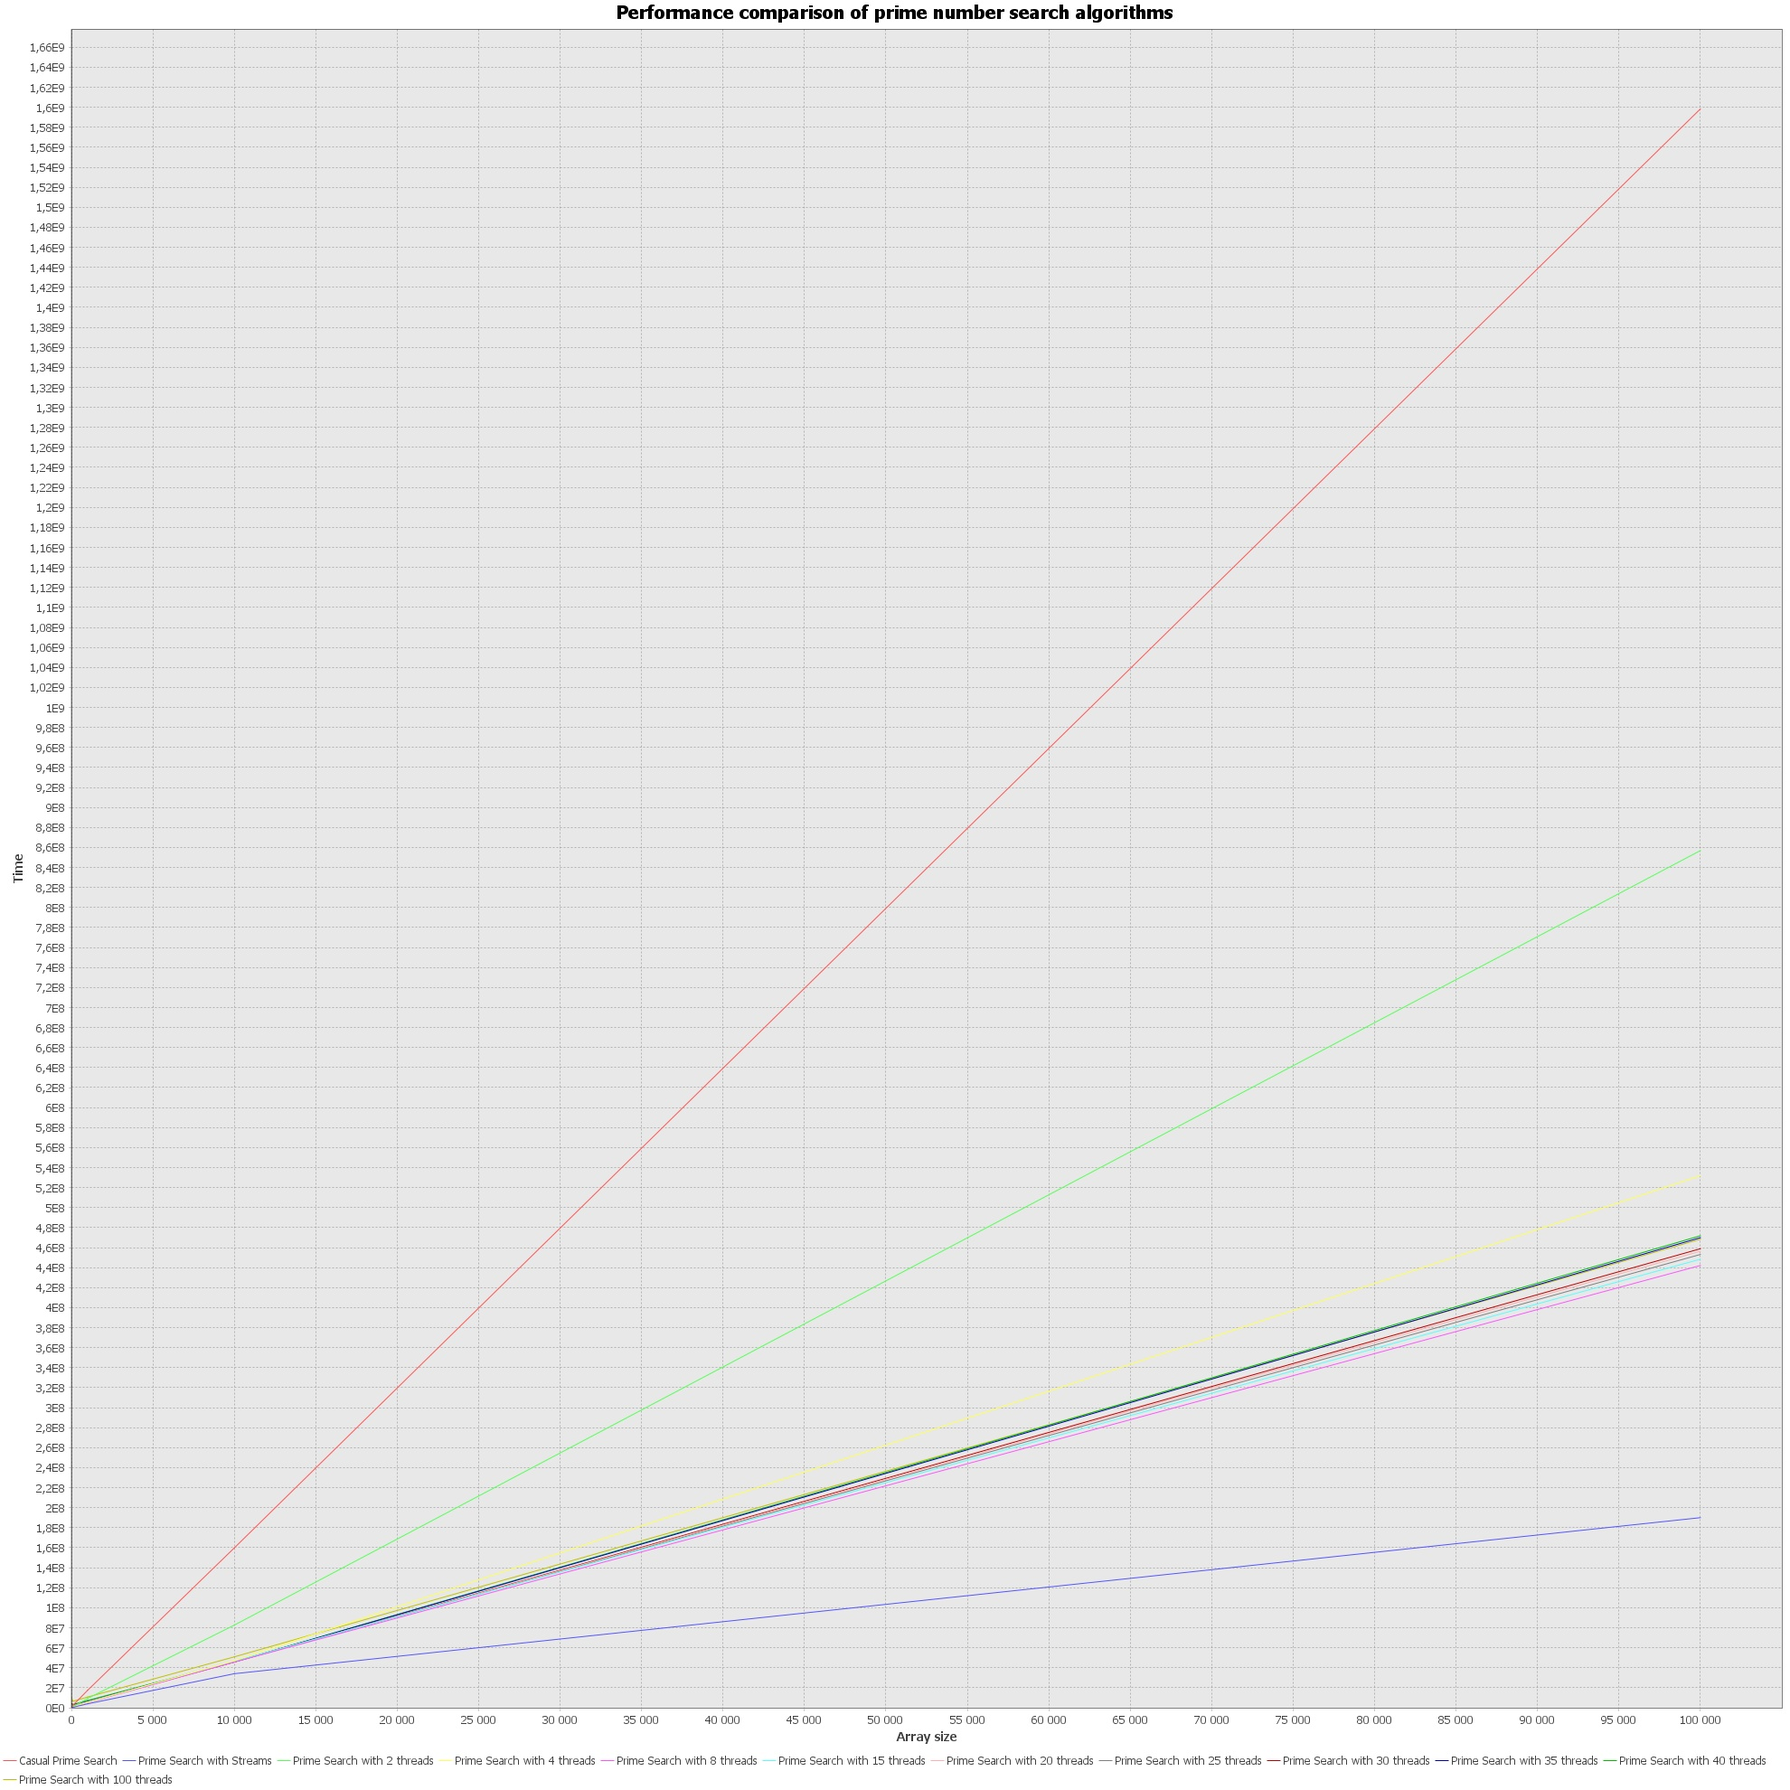
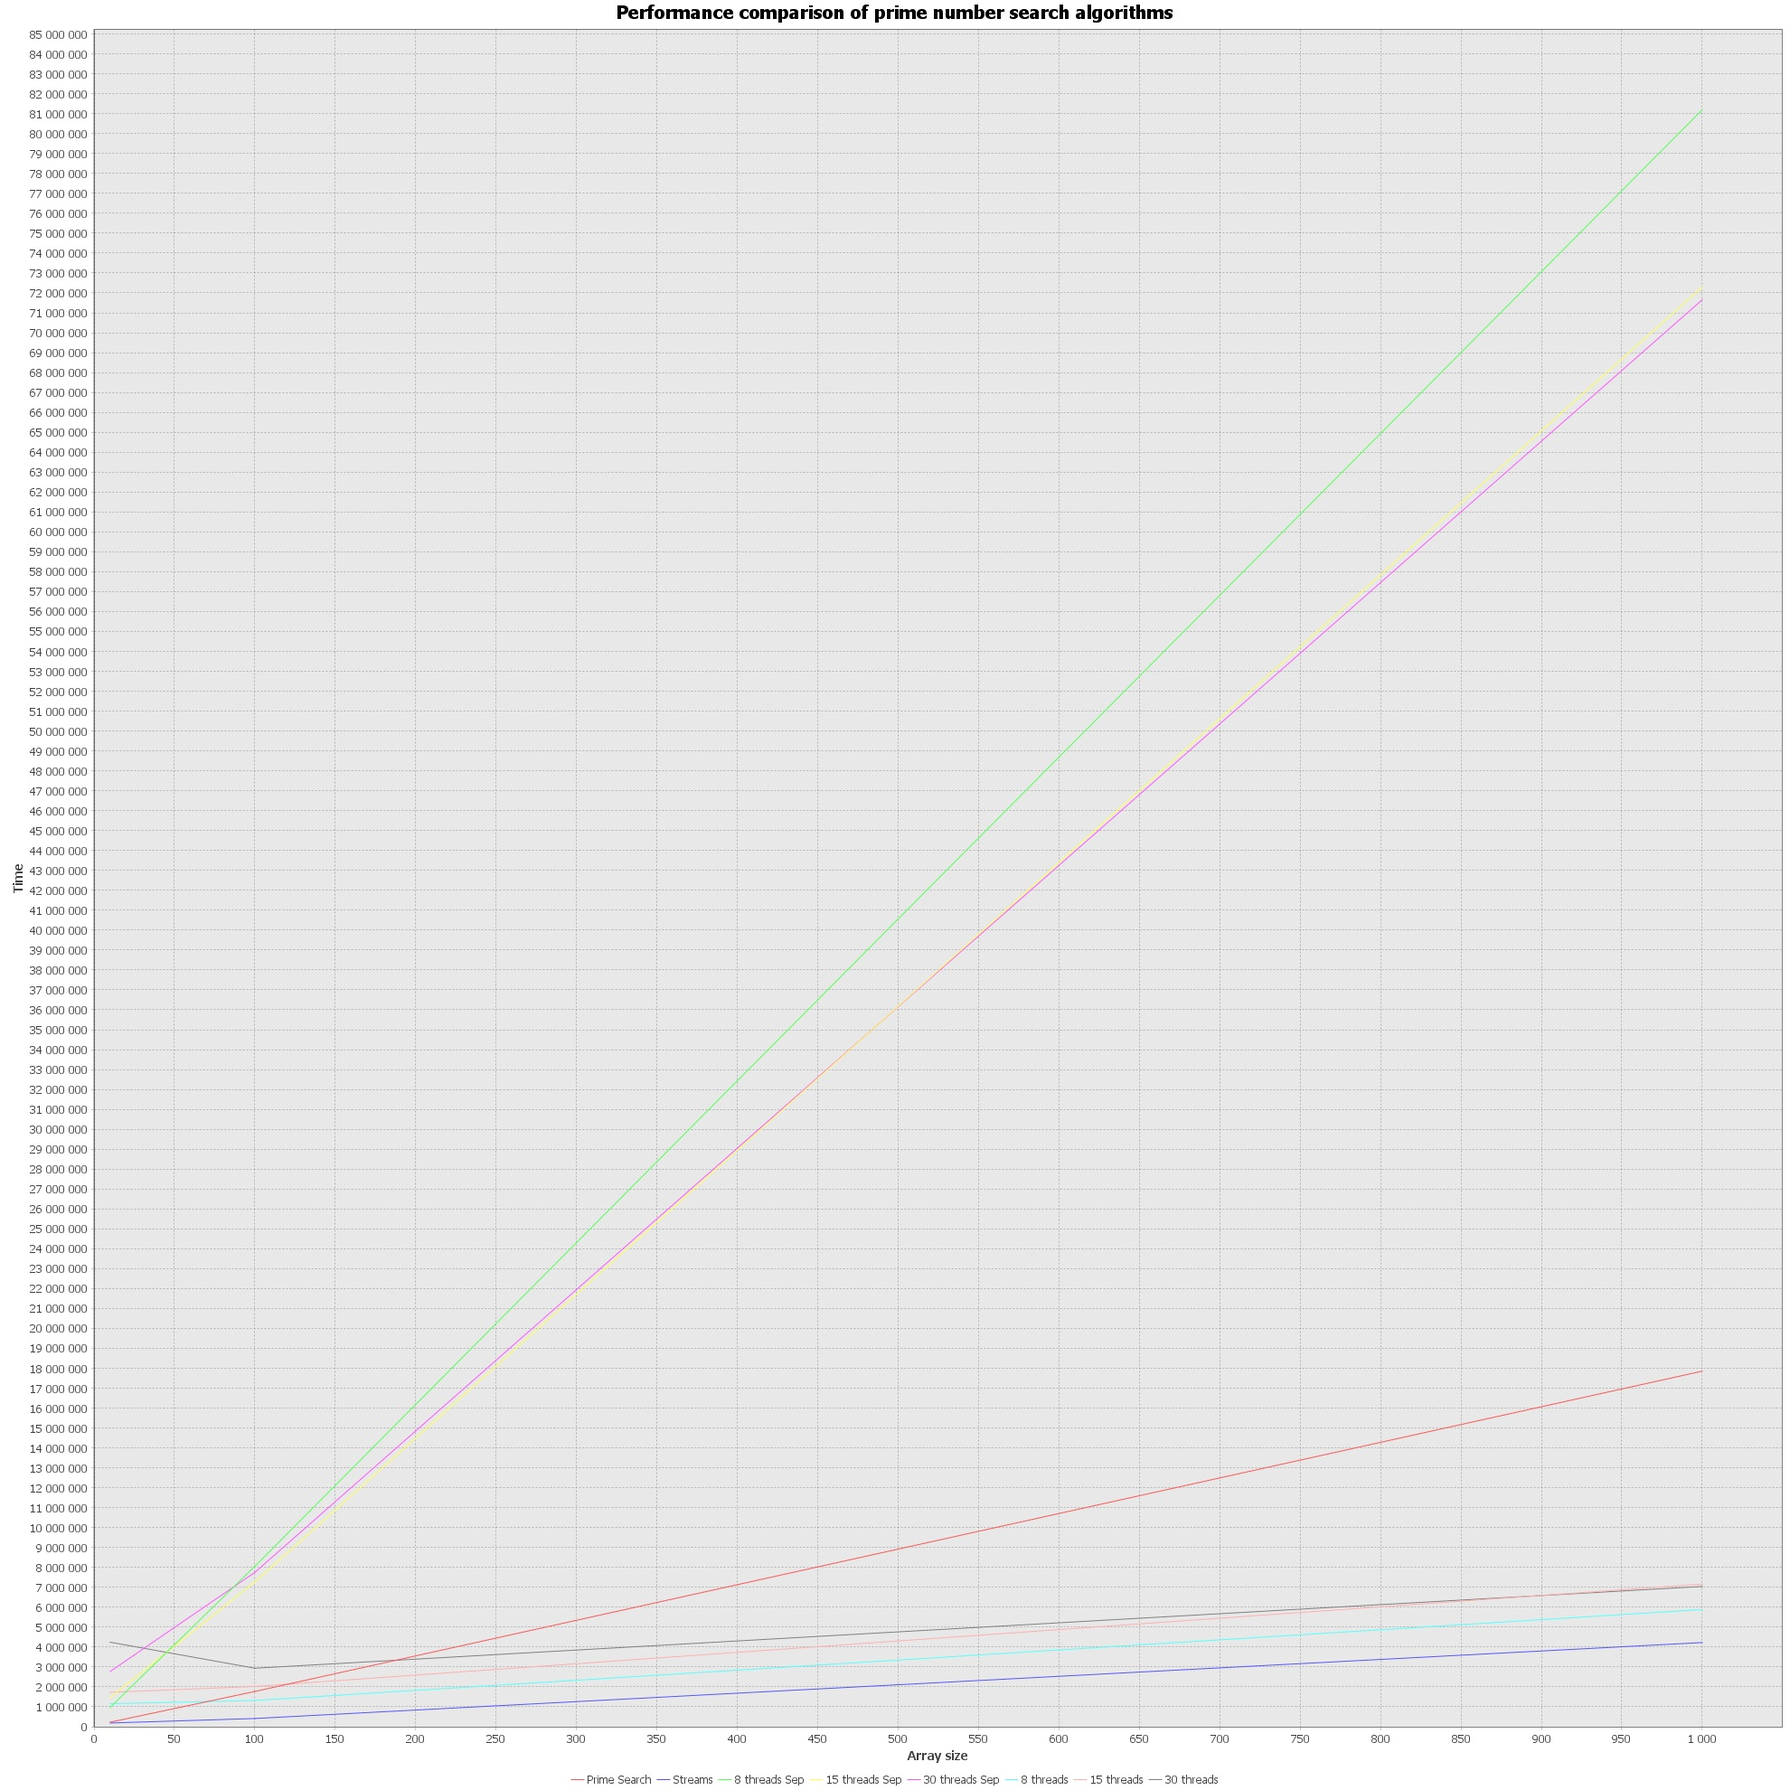
Fixes, new algorithm уменьше размер массива для тестирования

diff --git a/Task_2_1_1/src/test/java/ru/nsu/mbogdanov2/speed/PerformanceTest.java b/Task_2_1_1/src/test/java/ru/nsu/mbogdanov2/speed/PerformanceTest.java
@@ -6,12 +6,14 @@ import java.util.Arrays;
 import java.util.Collections;
 import java.util.List;
 import java.util.concurrent.ExecutionException;
+
 import org.jfree.data.xy.XYSeries;
 import org.jfree.data.xy.XYSeriesCollection;
 import org.junit.jupiter.api.Test;
 import ru.nsu.mbogdanov2.PrimeSearch;
 import ru.nsu.mbogdanov2.PrimeSearchWithStreams;
 import ru.nsu.mbogdanov2.PrimeSearchWithThread;
+import ru.nsu.mbogdanov2.PrimeSearchWithThreadsBySeparation;
 
 /**
  * We perform algorithms sequentially, with streams and with different number of threads.
@@ -24,7 +26,6 @@ public class PerformanceTest {
         }
         int[] array = new int[size];
         Arrays.fill(array, 0, size - 1, 1073676287);
-        array[size - 1] = 187263196;
         return array;
     }
 
@@ -52,62 +53,61 @@ public class PerformanceTest {
         return Collections.min(results);
     }
 
+    private long singleTestForThreadsBySeparations(PrimeSearchWithThreadsBySeparation notPrimeSearch, int[] array,
+                                                   int threadsNumber) {
+        List<Long> results = new ArrayList<>();
+        List<Integer> list = new ArrayList<>();
+        Integer[] array2 = Arrays.stream(array).boxed().toArray(Integer[]::new);
+        Collections.addAll(list, array2);
+        for (int i = 0; i < 3; ++i) {
+            long time = System.nanoTime();
+            notPrimeSearch.search(threadsNumber, false, list);
+            time = System.nanoTime() - time;
+            results.add(time);
+        }
+        return Collections.min(results);
+    }
+
     @Test
     public void performanceTest() throws ExecutionException, InterruptedException, IOException {
         XYSeriesCollection dataset = new XYSeriesCollection();
-        XYSeries series1 = new XYSeries("Casual Prime Search");
-        XYSeries series2 = new XYSeries("Prime Search with Streams");
-        XYSeries series3 = new XYSeries("Prime Search with 2 threads");
-        XYSeries series4 = new XYSeries("Prime Search with 4 threads");
-        XYSeries series5 = new XYSeries("Prime Search with 8 threads");
-        XYSeries series6 = new XYSeries("Prime Search with 15 threads");
-        XYSeries series7 = new XYSeries("Prime Search with 20 threads");
-        XYSeries series8 = new XYSeries("Prime Search with 25 threads");
-        XYSeries series9 = new XYSeries("Prime Search with 30 threads");
-        XYSeries series10 = new XYSeries("Prime Search with 35 threads");
-        XYSeries series11 = new XYSeries("Prime Search with 40 threads");
-        XYSeries series12 = new XYSeries("Prime Search with 100 threads");
+        XYSeries series1 = new XYSeries("Prime Search");
+        XYSeries series2 = new XYSeries("Streams");
+        XYSeries series3 = new XYSeries("8 threads Sep");
+        XYSeries series4 = new XYSeries("15 threads Sep");
+        XYSeries series5 = new XYSeries("8 threads");
+        XYSeries series6 = new XYSeries("30 threads Sep");
+        XYSeries series7 = new XYSeries("15 threads");
+        XYSeries series8 = new XYSeries("30 threads");
 
-        for (int size = 10; size <= 100000; size *= 10) {
+        for (int size = 10; size <= 1000; size *= 10) {
             int[] array = createArray(size);
             long time = singleTest(new PrimeSearch(), array);
             series1.add(size, time);
             time = singleTest(new PrimeSearchWithStreams(), array);
             series2.add(size, time);
-            time = singleTestForThreads(new PrimeSearchWithThread(), array, 2);
-            series3.add(size, time);
-            time = singleTestForThreads(new PrimeSearchWithThread(), array, 4);
-            series4.add(size, time);
             time = singleTestForThreads(new PrimeSearchWithThread(), array, 8);
             series5.add(size, time);
             time = singleTestForThreads(new PrimeSearchWithThread(), array, 15);
-            series6.add(size, time);
-            time = singleTestForThreads(new PrimeSearchWithThread(), array, 20);
             series7.add(size, time);
-            time = singleTestForThreads(new PrimeSearchWithThread(), array, 25);
-            series8.add(size, time);
             time = singleTestForThreads(new PrimeSearchWithThread(), array, 30);
-            series9.add(size, time);
-            time = singleTestForThreads(new PrimeSearchWithThread(), array, 35);
-            series10.add(size, time);
-            time = singleTestForThreads(new PrimeSearchWithThread(), array, 40);
-            series11.add(size, time);
-            time = singleTestForThreads(new PrimeSearchWithThread(), array, 100);
-            series12.add(size, time);
+            series8.add(size, time);
+            time = singleTestForThreadsBySeparations(new PrimeSearchWithThreadsBySeparation(), array, 8);
+            series3.add(size, time);
+            time = singleTestForThreadsBySeparations(new PrimeSearchWithThreadsBySeparation(), array, 15);
+            series4.add(size, time);
+            time = singleTestForThreadsBySeparations(new PrimeSearchWithThreadsBySeparation(), array, 30);
+            series6.add(size, time);
         }
 
         dataset.addSeries(series1);
         dataset.addSeries(series2);
         dataset.addSeries(series3);
         dataset.addSeries(series4);
-        dataset.addSeries(series5);
         dataset.addSeries(series6);
+        dataset.addSeries(series5);
         dataset.addSeries(series7);
         dataset.addSeries(series8);
-        dataset.addSeries(series9);
-        dataset.addSeries(series10);
-        dataset.addSeries(series11);
-        dataset.addSeries(series12);
         ChartRepresentation chart = new ChartRepresentation(dataset);
         chart.createFile();
     }

diff --git a/Task_2_1_1/src/main/java/ru/nsu/mbogdanov2/PrimeSearchWithThreadsBySeparation.java b/Task_2_1_1/src/main/java/ru/nsu/mbogdanov2/PrimeSearchWithThreadsBySeparation.java
@@ -1,0 +1,89 @@
+package ru.nsu.mbogdanov2;
+
+import java.util.Arrays;
+import java.util.List;
+
+
+/**
+ * Algorithm with separating of inputted array.
+ */
+public class PrimeSearchWithThreadsBySeparation {
+    private boolean notPrimeNumber = false;
+
+    /**
+     * Main function that tries to find not prime
+     * number in the list of numbers.
+     *
+     * @return false if there are only prime numbers.
+     */
+    public boolean search(int threadsNumber, boolean turnOnThreadsNumber, List<Integer> primeList) {
+        if (primeList.isEmpty()) {
+            throw new NullPointerException();
+        }
+        if (turnOnThreadsNumber) {
+            threadsNumber = Runtime.getRuntime().availableProcessors();
+        }
+        int listPart;
+        if (primeList.size() >= threadsNumber) {
+            listPart = 1;
+            threadsNumber = primeList.size();
+        } else {
+            listPart = primeList.size() / threadsNumber;
+        }
+        MyThread[] threads = new MyThread[threadsNumber];
+
+        int leftPart, rightPart;
+        for (int i = 0; i < threadsNumber; i++) {
+            leftPart = listPart * i;
+            if (i == threadsNumber - 1) {
+                rightPart = primeList.size();
+            } else {
+                rightPart = listPart * (i + 1);
+            }
+            threads[i] = new MyThread(primeList.subList(leftPart, rightPart));
+            threads[i].start();
+        }
+        checkThreads(threads);
+        return notPrimeNumber;
+    }
+
+    /**
+     * We check that all created threads must be finished.
+     */
+    public void checkThreads(MyThread[] threads) {
+        Arrays.stream(threads).forEach(myThread -> {
+            try {
+                myThread.join();
+            } catch (InterruptedException e) {
+                throw new RuntimeException(e);
+            }
+        });
+    }
+
+    /**
+     * Class that creates my own threads with mu own run method.
+     */
+    public class MyThread extends Thread {
+        private final List<Integer> primeList;
+
+        /**
+         * Constructor for my own threads.
+         */
+        public MyThread(List<Integer> numbers) {
+            this.primeList = numbers;
+        }
+
+        /**
+         * Override Run method for thread.
+         */
+        @Override
+        public void run() {
+            for (Integer i : primeList) {
+                if (!PrimeSearchWithThread.primeCheck(i)) {
+                    notPrimeNumber = true;
+                    break;
+                }
+            }
+        }
+    }
+}

diff --git a/Task_2_1_1/src/test/java/ru/nsu/mbogdanov2/algorithm/PrimeSearchWithThreadsBySeparationTests.java b/Task_2_1_1/src/test/java/ru/nsu/mbogdanov2/algorithm/PrimeSearchWithThreadsBySeparationTests.java
@@ -1,0 +1,68 @@
+package ru.nsu.mbogdanov2.algorithm;
+
+
+import static org.junit.jupiter.api.Assertions.assertFalse;
+import static org.junit.jupiter.api.Assertions.assertThrows;
+import static org.junit.jupiter.api.Assertions.assertTrue;
+
+import java.util.ArrayList;
+import java.util.Arrays;
+import java.util.Collections;
+import java.util.List;
+
+import org.junit.jupiter.api.Test;
+import ru.nsu.mbogdanov2.PrimeSearchWithThreadsBySeparation;
+
+
+/**
+ * Testing class for threads algorithm with separated array.
+ */
+public class PrimeSearchWithThreadsBySeparationTests {
+    @Test
+    public void search_throwsNullPointerException() {
+        assertThrows(NullPointerException.class, () -> new PrimeSearchWithThreadsBySeparation()
+                .search(0, true, new ArrayList<>()));
+    }
+
+    @Test
+    public void smallDataTestFalse() {
+        int size = 70;
+        Integer[] array = new Integer[size];
+        Arrays.fill(array, 0, size, 17);
+        List<Integer> list = new ArrayList<>();
+        Collections.addAll(list, array);
+        assertFalse(new PrimeSearchWithThreadsBySeparation().search(2, true, list));
+    }
+
+    @Test
+    public void smallDataTestTrue() {
+        int size = 70;
+        Integer[] array = new Integer[size];
+        Arrays.fill(array, 0, size - 1, 13);
+        array[69] = 100;
+        List<Integer> list = new ArrayList<>();
+        Collections.addAll(list, array);
+        assertTrue(new PrimeSearchWithThreadsBySeparation().search(8, true, list));
+    }
+
+    @Test
+    public void largeDataTestFalse() {
+        int size = 100000;
+        Integer[] array = new Integer[size];
+        Arrays.fill(array, 0, size, 2624183);
+        List<Integer> list = new ArrayList<>();
+        Collections.addAll(list, array);
+        assertFalse(new PrimeSearchWithThreadsBySeparation().search(8, true, list));
+    }
+
+    @Test
+    public void largeDataTestTrue() {
+        int size = 100000;
+        Integer[] array = new Integer[size];
+        Arrays.fill(array, 0, size - 1, 262419);
+        array[size - 1] = 22222228;
+        List<Integer> list = new ArrayList<>();
+        Collections.addAll(list, array);
+        assertTrue(new PrimeSearchWithThreadsBySeparation().search(8, true, list));
+    }
+}

diff --git a/Task_2_1_1/src/main/java/ru/nsu/mbogdanov2/PrimeSearch.java b/Task_2_1_1/src/main/java/ru/nsu/mbogdanov2/PrimeSearch.java
@@ -1,37 +1,17 @@
 package ru.nsu.mbogdanov2;
 
+import static ru.nsu.mbogdanov2.PrimeSearchWithThread.primeCheck;
+
 /**
  * Casual class without stream and thread.
  */
 public class PrimeSearch {
-    /**
-     * Function to check the number of divisors on the number.
-     * I found it on the stackoverflow, and it's not bad.
-     *
-     * @param number number that need to be checked
-     * @return true if the number is prime
-     */
-    public boolean primeCheck(int number) {
-        if (number <= 1) {
-            return false;
-        } else if (number <= 3) {
-            return true;
-        } else if (number % 2 == 0 || number % 3 == 0) {
-            return false;
-        }
-        for (int i = 5; i * i <= number; i += 6) {
-            if (number % i == 0 || number % (i + 2) == 0) {
-                return false;
-            }
-        }
-        return true;
-    }
 
     /**
      * We check every number of the input array.
      * Return true if there are at least one not prime number.
      */
-    public boolean search(int[] array) throws NullPointerException {
+    public boolean search(int[] array) {
         if (array == null) {
             throw new NullPointerException();
         }

diff --git a/Task_2_1_1/src/main/java/ru/nsu/mbogdanov2/PrimeSearchWithThread.java b/Task_2_1_1/src/main/java/ru/nsu/mbogdanov2/PrimeSearchWithThread.java
@@ -37,12 +37,11 @@ public class PrimeSearchWithThread {
      * Secondly, we create list of callable tasks for every number of processors.
      * Then we just check the result and shutdown tasks.
      */
-    public boolean search(int[] array, boolean flag, int threadsNumber) throws NullPointerException,
-            InterruptedException, ExecutionException {
+    public boolean search(int[] array, boolean turnOnThreadsNumber, int threadsNumber) throws InterruptedException, ExecutionException {
         if (array == null) {
             throw new NullPointerException();
         }
-        if (flag) {
+        if (turnOnThreadsNumber) {
             threadsNumber = Runtime.getRuntime().availableProcessors();
         }
         deque = Arrays.stream(array).boxed().collect(Collectors.toCollection(ArrayDeque::new));
@@ -73,7 +72,7 @@ public class PrimeSearchWithThread {
         return false;
     }
 
-    private static boolean primeCheck(int number) {
+    public static boolean primeCheck(int number) {
         if (number <= 1) {
             return false;
         } else if (number <= 3) {

diff --git a/Task_2_1_1/src/main/java/ru/nsu/mbogdanov2/PrimeSearchWithStreams.java b/Task_2_1_1/src/main/java/ru/nsu/mbogdanov2/PrimeSearchWithStreams.java
@@ -1,7 +1,8 @@
 package ru.nsu.mbogdanov2;
 
 import java.util.Arrays;
-import java.util.stream.IntStream;
+
+import static ru.nsu.mbogdanov2.PrimeSearchWithThread.primeCheck;
 
 /**
  * Simple algorithm with streams.
@@ -12,11 +13,10 @@ public class PrimeSearchWithStreams extends PrimeSearch {
      * We return true if there is at least 1 non-prime number
      */
     @Override
-    public boolean search(int[] array) throws NullPointerException {
+    public boolean search(int[] array) {
         if (array == null) {
             throw new NullPointerException();
         }
-        IntStream intStream = Arrays.stream(array);
-        return intStream.parallel().anyMatch(number -> !primeCheck(number));
+        return Arrays.stream(array).parallel().anyMatch(number -> !primeCheck(number));
     }
 }

diff --git a/Task_2_1_1/src/test/java/ru/nsu/mbogdanov2/algorithm/PrimeSearchTests.java b/Task_2_1_1/src/test/java/ru/nsu/mbogdanov2/algorithm/PrimeSearchTests.java
@@ -8,6 +8,7 @@ import static org.junit.jupiter.api.Assertions.assertTrue;
 import java.util.Arrays;
 import org.junit.jupiter.api.Test;
 import ru.nsu.mbogdanov2.PrimeSearch;
+import ru.nsu.mbogdanov2.PrimeSearchWithThread;
 
 
 /**
@@ -17,7 +18,7 @@ public class PrimeSearchTests {
 
     @Test
     public void oneNumberTest() {
-        assertTrue(new PrimeSearch().primeCheck(3));
+        assertTrue(PrimeSearchWithThread.primeCheck(3));
     }
 
     @Test
